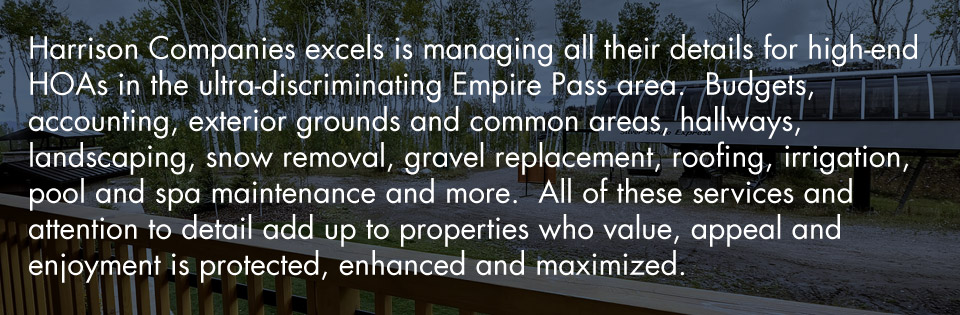
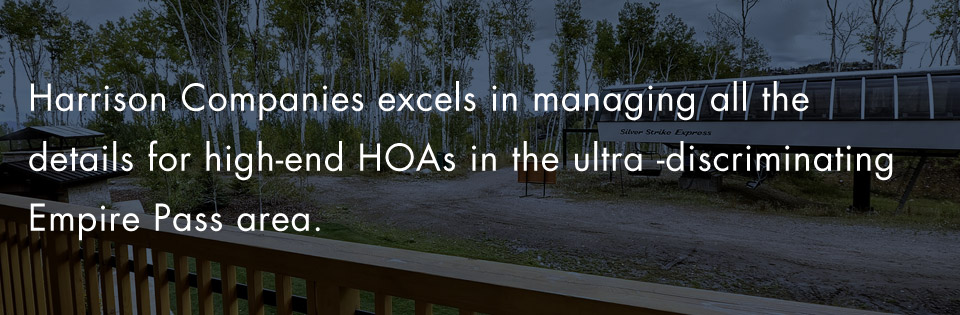
Some copy changes. Also added final images with accompanying changes in the css.

Changed region(s): [[0.0312, 0.1143, 0.9688, 0.7714], [0.0312, 0.8, 0.7188, 0.8857], [0.5625, 0.5714, 0.9062, 0.6571]]

diff --git a/wp-content/themes/harrison-companies/css/harrisonco.css b/wp-content/themes/harrison-companies/css/harrisonco.css
@@ -13,14 +13,14 @@ ul#menu-login {padding: none;}
 #menu-login li {list-style: none}
 .book-pass {text-align: right}
 #content{background: #fff; margin-bottom: 10px}
-#exclusive {height: 60px; text-align:center;background: #fff url("../img/h-bg-2.png") no-repeat top left}
+#exclusive {height: 45px; padding-top:15px; text-align:center;background: #fff url("../img/h-bg-2.png") no-repeat top left}
 #footer {text-align: center; background: #000033; width:1000px; margin: 0 auto; padding: 30px 0 0 0; color: #fff; font-size: 0.8em}
 #footer ul {margin-bottom: 20px}
 #footer ul li {display: inline; margin-right: 5px; padding-right:10px; border-right: 1px solid #fff; list-style: none; }
-#post{padding: 10px 0}
+#post{padding: 20px 0}
 #post ul {margin-bottom: 10px}
 #post ul li{margin-left: 15px}
-#sidebar{padding: 10px 0}
+#sidebar{padding: 20px 0}
 .circle-nav {float: left; width:100%;list-style: none; padding-bottom: 20px}
 .circle-nav li {float: left; width: 33%; text-align: center}
 #pillow-placement {text-align: center; height: 70px; padding: 10px 0 0 0 }

diff --git a/wp-content/themes/harrison-companies/header/header-default.php b/wp-content/themes/harrison-companies/header/header-default.php
@@ -28,7 +28,7 @@ if (CFCT_DEBUG) { cfct_banner(__FILE__); }
   <meta charset="utf-8">
   <meta http-equiv="X-UA-Compatible" content="IE=edge,chrome=1">
 
-  <title></title>
+  <title><?php wp_title(''); ?></title>
   <meta name="description" content="">
   <meta name="author" content="">
 
@@ -47,21 +47,18 @@ if (CFCT_DEBUG) { cfct_banner(__FILE__); }
 <body>
 <div class="main clearfix">
 	<div id="header" class="g980">
-		<?php 
-		wp_nav_menu( 	array( 
-							'theme_location' => 'login-menu',
-							'container_class' => 'g210 inside',
-							'container_id' => 'login-nav'
-							 ) 
-		 ); 
-		 ?>
+		<div id="login-nav" class="g210 inside">
+		<?php wp_nav_menu( array( 'theme_location' => 'login-menu', 'container' => false ) ); ?>
+		<p>Need help? 435.649.8800</p>
+		</div>
+		 
 		<div id="logo" class="g560">
-			<img src="<?php bloginfo('template_directory'); ?>/img/hc-logo.png" alt="" />
+			<a href="<?php bloginfo('url') ?>"><img src="<?php bloginfo('template_directory'); ?>/img/hc-logo.png" alt="" /></a>
 		</div>
 		<div class="g210">
 			<p class="book-pass">
 				Book your Empire Pass accomodations wth us!<br />
-				<a href="http://EmpireLuxuryLodging.com">EmpireLuxuryLodging.com</a>
+				<a target="_blank" href="http://EmpireLuxuryLodging.com">EmpireLuxuryLodging.com</a>
 				888·983·6747
 			</p>
 		</div>

diff --git a/wp-content/themes/harrison-companies/functions/myshit.php b/wp-content/themes/harrison-companies/functions/myshit.php
@@ -11,3 +11,15 @@ function register_my_menu() {
 		)
 	);
 }
+
+add_filter( 'the_password_form', 'custom_password_form' );
+function custom_password_form() {
+	global $post;
+	$label = 'pwbox-'.( empty( $post->ID ) ? rand() : $post->ID );
+	$o = '<form class="protected-post-form" action="' . get_option('siteurl') . '/wp-pass.php" method="post">
+	' . __( "Realtors looking for HOA documentation, please log in below. <br />Call 435-649-8800 for password.<br /><br />" ) . '
+	<label for="' . $label . '">' . __( "Password:" ) . ' </label><input name="post_password" id="' . $label . '" type="password" size="20" /><input type="submit" name="Submit" value="' . esc_attr__( "Submit" ) . '" />
+	</form>
+	';
+	return $o;
+}

diff --git a/wp-content/themes/harrison-companies/footer/footer-default.php b/wp-content/themes/harrison-companies/footer/footer-default.php
@@ -26,9 +26,9 @@ if (CFCT_DEBUG) { cfct_banner(__FILE__); }
 							 ) 
 		 ); ?>
 			<p>Main Empire Pass Service Office:  8880 Empire Club Drive | 435-333-6900 | 435-649-8800<br />
-Visit our sister site <a href="http://EmpireLuxuryLodging.com">EmpireLuxuryLodging.com</a>, offering the height of upper Deer Valley Resort vacation experiences.
+Visit our sister site <a target="_blank" href="http://EmpireLuxuryLodging.com">EmpireLuxuryLodging.com</a>, offering the height of upper Deer Valley Resort vacation experiences.
 </p>
-			<p>Copyright 2011 Harrison Companies. All Rights Reserved.</p>
+			<p>&copy; 2011 Harrison Companies. All Rights Reserved.</p>
 		</div>
   
 

diff --git a/wp-config.php b/wp-config.php
@@ -16,16 +16,16 @@
 
 // ** MySQL settings - You can get this info from your web host ** //
 /** The name of the database for WordPress */
-define('DB_NAME', 'harrisonco');
+define('DB_NAME', 'w6cp_harrisonco');
 
 /** MySQL database username */
-define('DB_USER', 'root');
+define('DB_USER', 'w6cp_harrison');
 
 /** MySQL database password */
-define('DB_PASSWORD', '');
+define('DB_PASSWORD', 'harrisonco');
 
 /** MySQL hostname */
-define('DB_HOST', 'localhost');
+define('DB_HOST', 'db2.slc1.stackable.com');
 
 /** Database Charset to use in creating database tables. */
 define('DB_CHARSET', 'utf8');

diff --git a/wp-content/themes/harrison-companies/pages/realtor.php b/wp-content/themes/harrison-companies/pages/realtor.php
@@ -35,11 +35,10 @@ if (!empty($header_img))
 }
 wp_reset_query();
 echo "</div>";
-echo '<div class="g630 in70" id="post">';
+echo '<div class="g840 in70" id="post">';
 cfct_loop();
 do_action('posts_logout_link');
 echo '</div>';
-get_sidebar();
 
 echo '</div>';
 get_footer();

diff --git a/wp-content/themes/harrison-companies/page-realtor.php b/wp-content/themes/harrison-companies/page-realtor.php
@@ -1,0 +1,12 @@
+<?php
+
+/*
+Template Name: Realtor Template
+*/
+
+if (__FILE__ == $_SERVER['SCRIPT_FILENAME']) { die(); }
+if (CFCT_DEBUG) { cfct_banner(__FILE__); }
+
+cfct_page('realtor');
+
+?>
